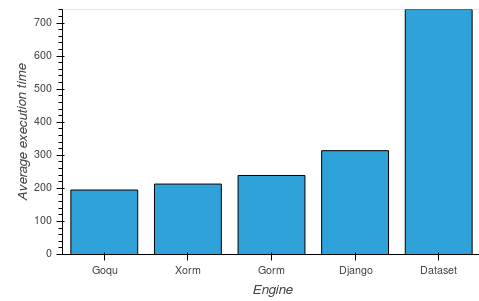
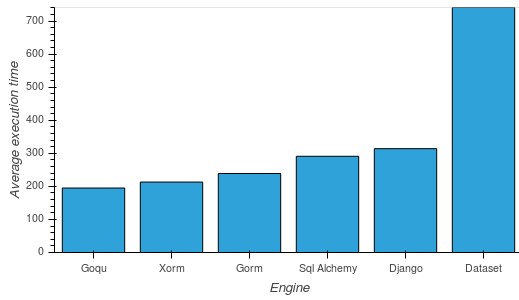
Add test for Sql Alchemy

Changed region(s): [[0.0, 0.0, 1.0, 0.99]]

diff --git a/sqla/__main__.py b/sqla/__main__.py
@@ -1,0 +1,123 @@
+import datetime
+import argparse
+import dataset
+import uuid
+from sqlalchemy.ext.declarative import declarative_base
+from sqlalchemy import Column, Float, Boolean, Integer, String, create_engine
+from sqlalchemy.orm import Session
+
+conn = None
+engine = None
+sdb = None
+Base = declarative_base()
+
+
+class Record(Base):
+    __tablename__ = "records"
+    id = Column(Integer, primary_key=True)
+    
+    field1 = Column(String(255))
+    field2 = Column(String(255))
+    field3 = Column(String(255))
+    field4 = Column(String(255))
+    field5 = Column(String(255))
+    field6 = Column(String(255))
+    field7 = Column(String(255))
+    field8 = Column(String(255))
+    field9 = Column(String(255))
+    field10 = Column(String(255))
+    field11 = Column(String(255))
+    field12 = Column(String(255))
+    field13 = Column(Integer())
+    field14 = Column(Float())
+    field15 = Column(Boolean())
+
+
+def init_db():
+    global engine, conn
+    engine = create_engine("sqlite:///speedtest.sqlite")
+    conn = engine.connect()
+
+
+def insert(n=1000):
+    global engine
+    init_db()
+    session = Session(bind=engine)
+    session.bulk_save_objects([
+        Record(
+            field1="Lorem ipsum dolor",
+            field2="Lorem ipsum dolor",
+            field3="Lorem ipsum dolor",
+            field4="Lorem ipsum dolor",
+            field5="Lorem ipsum dolor",
+            field6="Lorem ipsum dolor",
+            field7="Lorem ipsum dolor",
+            field8="Lorem ipsum dolor",
+            field9="Lorem ipsum dolor",
+            field10="Lorem ipsum dolor",
+            field11="Lorem ipsum dolor",
+            field12="Lorem ipsum dolor",
+            field13=4578,
+            field14=1578.258,
+            field15=True,
+        )
+        for i in range(n)
+    ])
+    session.commit()
+
+
+def initSdb(path):
+    global sdb
+    sdb = dataset.connect('sqlite:///' + path)
+
+
+def recStat(rid, exec_time, numi, numruns, run):
+    global sdb
+    table = sdb["metrics"]
+    data = dict(
+            engine="sqlalchemy",
+            num_inserts=numi,
+            total_runs=numruns,
+            run_id=rid,
+            exec_time=exec_time,
+            run=run,
+            date=datetime.datetime.now())
+    table.insert(data)
+
+
+if __name__ == '__main__':
+    parser = argparse.ArgumentParser()
+    parser.add_argument('-n', dest='records', type=int, default=1000,
+                        help='Number of records to insert')
+    parser.add_argument('-r', dest='runs', type=int, default=10,
+                        help='Number of runs to make')
+    parser.add_argument('-s', dest='stats', action='store_true',
+                        help='Log runs in a database')
+    parser.add_argument('-sdb', dest='sdb', type=str,
+                        default="stats.sqlite",
+                        help='Stats database location')
+    args = parser.parse_args()
+    print("Starting to save", args.records, "records per run.",
+          "Doing", args.runs, "runs")
+    if args.stats is True:
+        print("Logging results to stats db")
+        initSdb(args.sdb)
+    i = 0
+    timer = datetime.datetime.now()
+    st = timer
+    rid = str(uuid.uuid4())
+    while i < args.runs:
+        start = datetime.datetime.now()
+        insert()
+        finish = datetime.datetime.now()
+        extime = finish - start
+        timer = timer + extime
+        print(i + 1, ":", extime)
+        if args.stats is True:
+            ms = int(extime.total_seconds() * 1000)
+            recStat(rid, ms, args.records, args.runs, i)
+        i += 1
+    timer = timer - st
+    avg = timer / args.runs
+    print("Completed the", args.records, "runs in an average of", avg,
+          "all runs took", timer)

diff --git a/README.md b/README.md
@@ -12,7 +12,8 @@ Test Sqlite write speed with various sql abstraction tools in Go and Python
 
 ### Python
 
-- [Django orm](https://www.djangoproject.com/): the Django object relationnal mapper
+- [Sql Alchemy](http://sqlalchemy.org/): an orm
+- [Django orm](https://www.djangoproject.com/): the Django orm
 - [Dataset](https://github.com/pudo/dataset): an easy way to handle database operations
 in Python (uses [SqlAlchemy](http://www.sqlalchemy.org/) under the hood)
 
@@ -40,6 +41,8 @@ Inserting 1000 records (500 runs):
 **Xorm**: average of 214 ms. Best run: 188 ms. Worst run: 487 ms
 
 **Gorm**: average of 239 ms. Best run: 177 ms. Worst run: 513 ms
+
+**Sql Alchemy**: average of 291 ms. Best run: 252 ms. Worst run: 982 ms
    
 **Django**: average of 314 ms. Best run: 259 ms. Worst run: 641 ms
 
@@ -55,7 +58,7 @@ Blue: Gorm, Yellow: Xorm, Green: Goqu
 
 #### Python
 
-Orange: Django, Green: Dataset
+Red: Sql Alchemy, Orange: Django, Green: Dataset
 
 ![Img](https://raw.githubusercontent.com/synw/sqlite-speed/master/docs/img/timeline_python.png)
 
@@ -73,6 +76,10 @@ Orange: Django, Green: Dataset
 #### Xorm
 
 ![Img](https://raw.githubusercontent.com/synw/sqlite-speed/master/docs/img/xorm_timeline.png)
+
+#### Sql Alchemy
+
+![Img](https://raw.githubusercontent.com/synw/sqlite-speed/master/docs/img/sqla_timeline.png)
 
 #### Django
 
@@ -94,7 +101,7 @@ This uses normalized data with the extreme values removed to compare the most co
 
 ##### Python
 
-![Img](https://raw.githubusercontent.com/synw/sqlite-speed/master/docs/img/django_norm.png)
+![Img](https://raw.githubusercontent.com/synw/sqlite-speed/master/docs/img/django_sqla_norm.png)
 
 ![Img](https://raw.githubusercontent.com/synw/sqlite-speed/master/docs/img/dataset_norm.png)
 
@@ -111,6 +118,10 @@ This uses normalized data with the extreme values removed to compare the most co
 #### Xorm
 
 ![Img](https://raw.githubusercontent.com/synw/sqlite-speed/master/docs/img/xorm_distrib.png)
+
+#### Sql Alchemy
+
+![Img](https://raw.githubusercontent.com/synw/sqlite-speed/master/docs/img/sqla_distrib.png)
 
 #### Django
 
@@ -132,6 +143,8 @@ This measures the level of dispersion of the values around the mean
 
 **Gorm**: 14 %
 
+**Sql Alchemy**: 16,6 %
+
 **Goqu**: 18,6 %
 
 ![Img](https://raw.githubusercontent.com/synw/sqlite-speed/master/docs/img/bar_cvar.png)
@@ -145,6 +158,7 @@ Engine | Speed | Ease of use | Regularity
 Gorm | ++++ | ++++ | +
 Goqu | +++++ | +++ | ++
 Xorm | ++++ | ++++ | +++
+Sql Alchemy | +++ | +++ | 
 Django | +++ | ++++ | +++++
 Dataset | + | +++++ | +++
 
@@ -159,7 +173,7 @@ Some keypoints:
 ## Run the tests
 
    ```
-   pip install dataset
+   pip install dataset sqlalchemy
    ```
 
 Get the stuff:
@@ -182,6 +196,7 @@ Start testing:
 - Goqu: `go run main.go -e goqu`
 - Xorm: `go run main.go -e xorm`
 
+- Sql Alchemy: `python3 sqla`
 - Dataset: `python3 dataset`
 - Django: see 
 [the instuctions](https://github.com/synw/sqlite-speed/tree/master/django)
@@ -211,6 +226,6 @@ some [notebooks](https://github.com/synw/sqlite-speed-notebooks) are available
 - [x] Automate multiple runs and stats
 - [x] Test with Xorm
 - [x] Test with Django orm
-- [ ] Test with SqlAlchemy
+- [x] Test with SqlAlchemy
 - [x] Publish the notebooks that build the charts from the collected data
 
